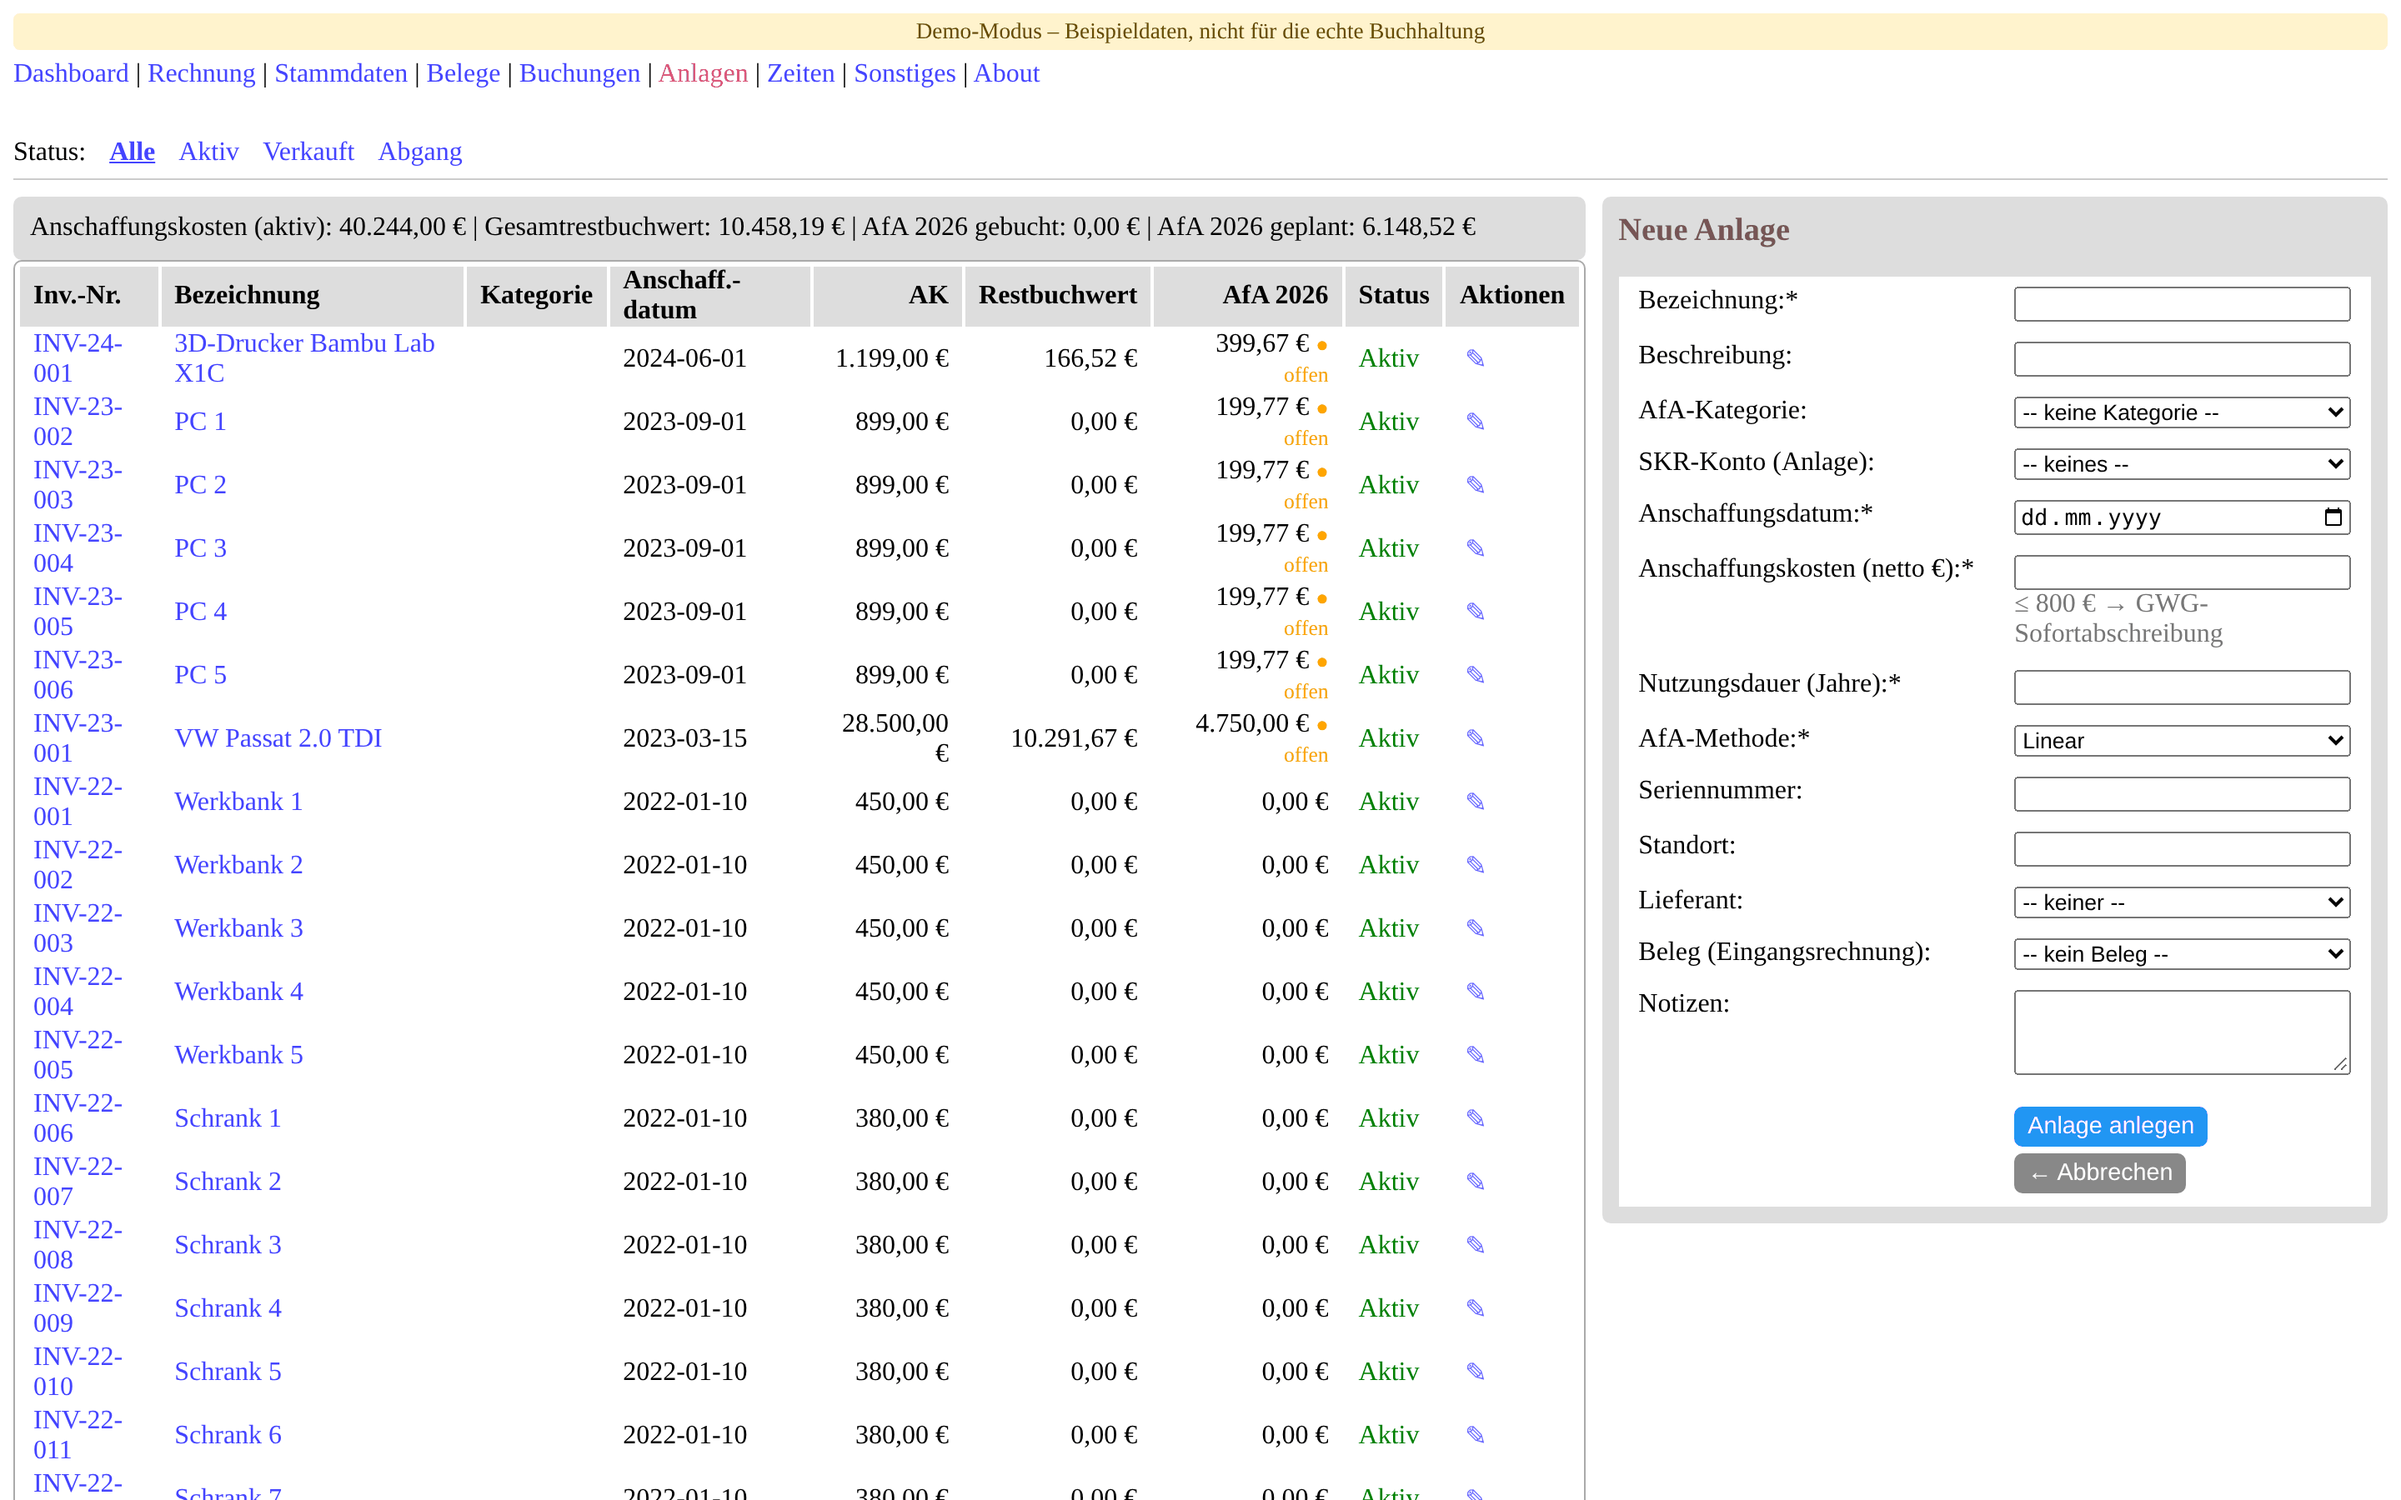
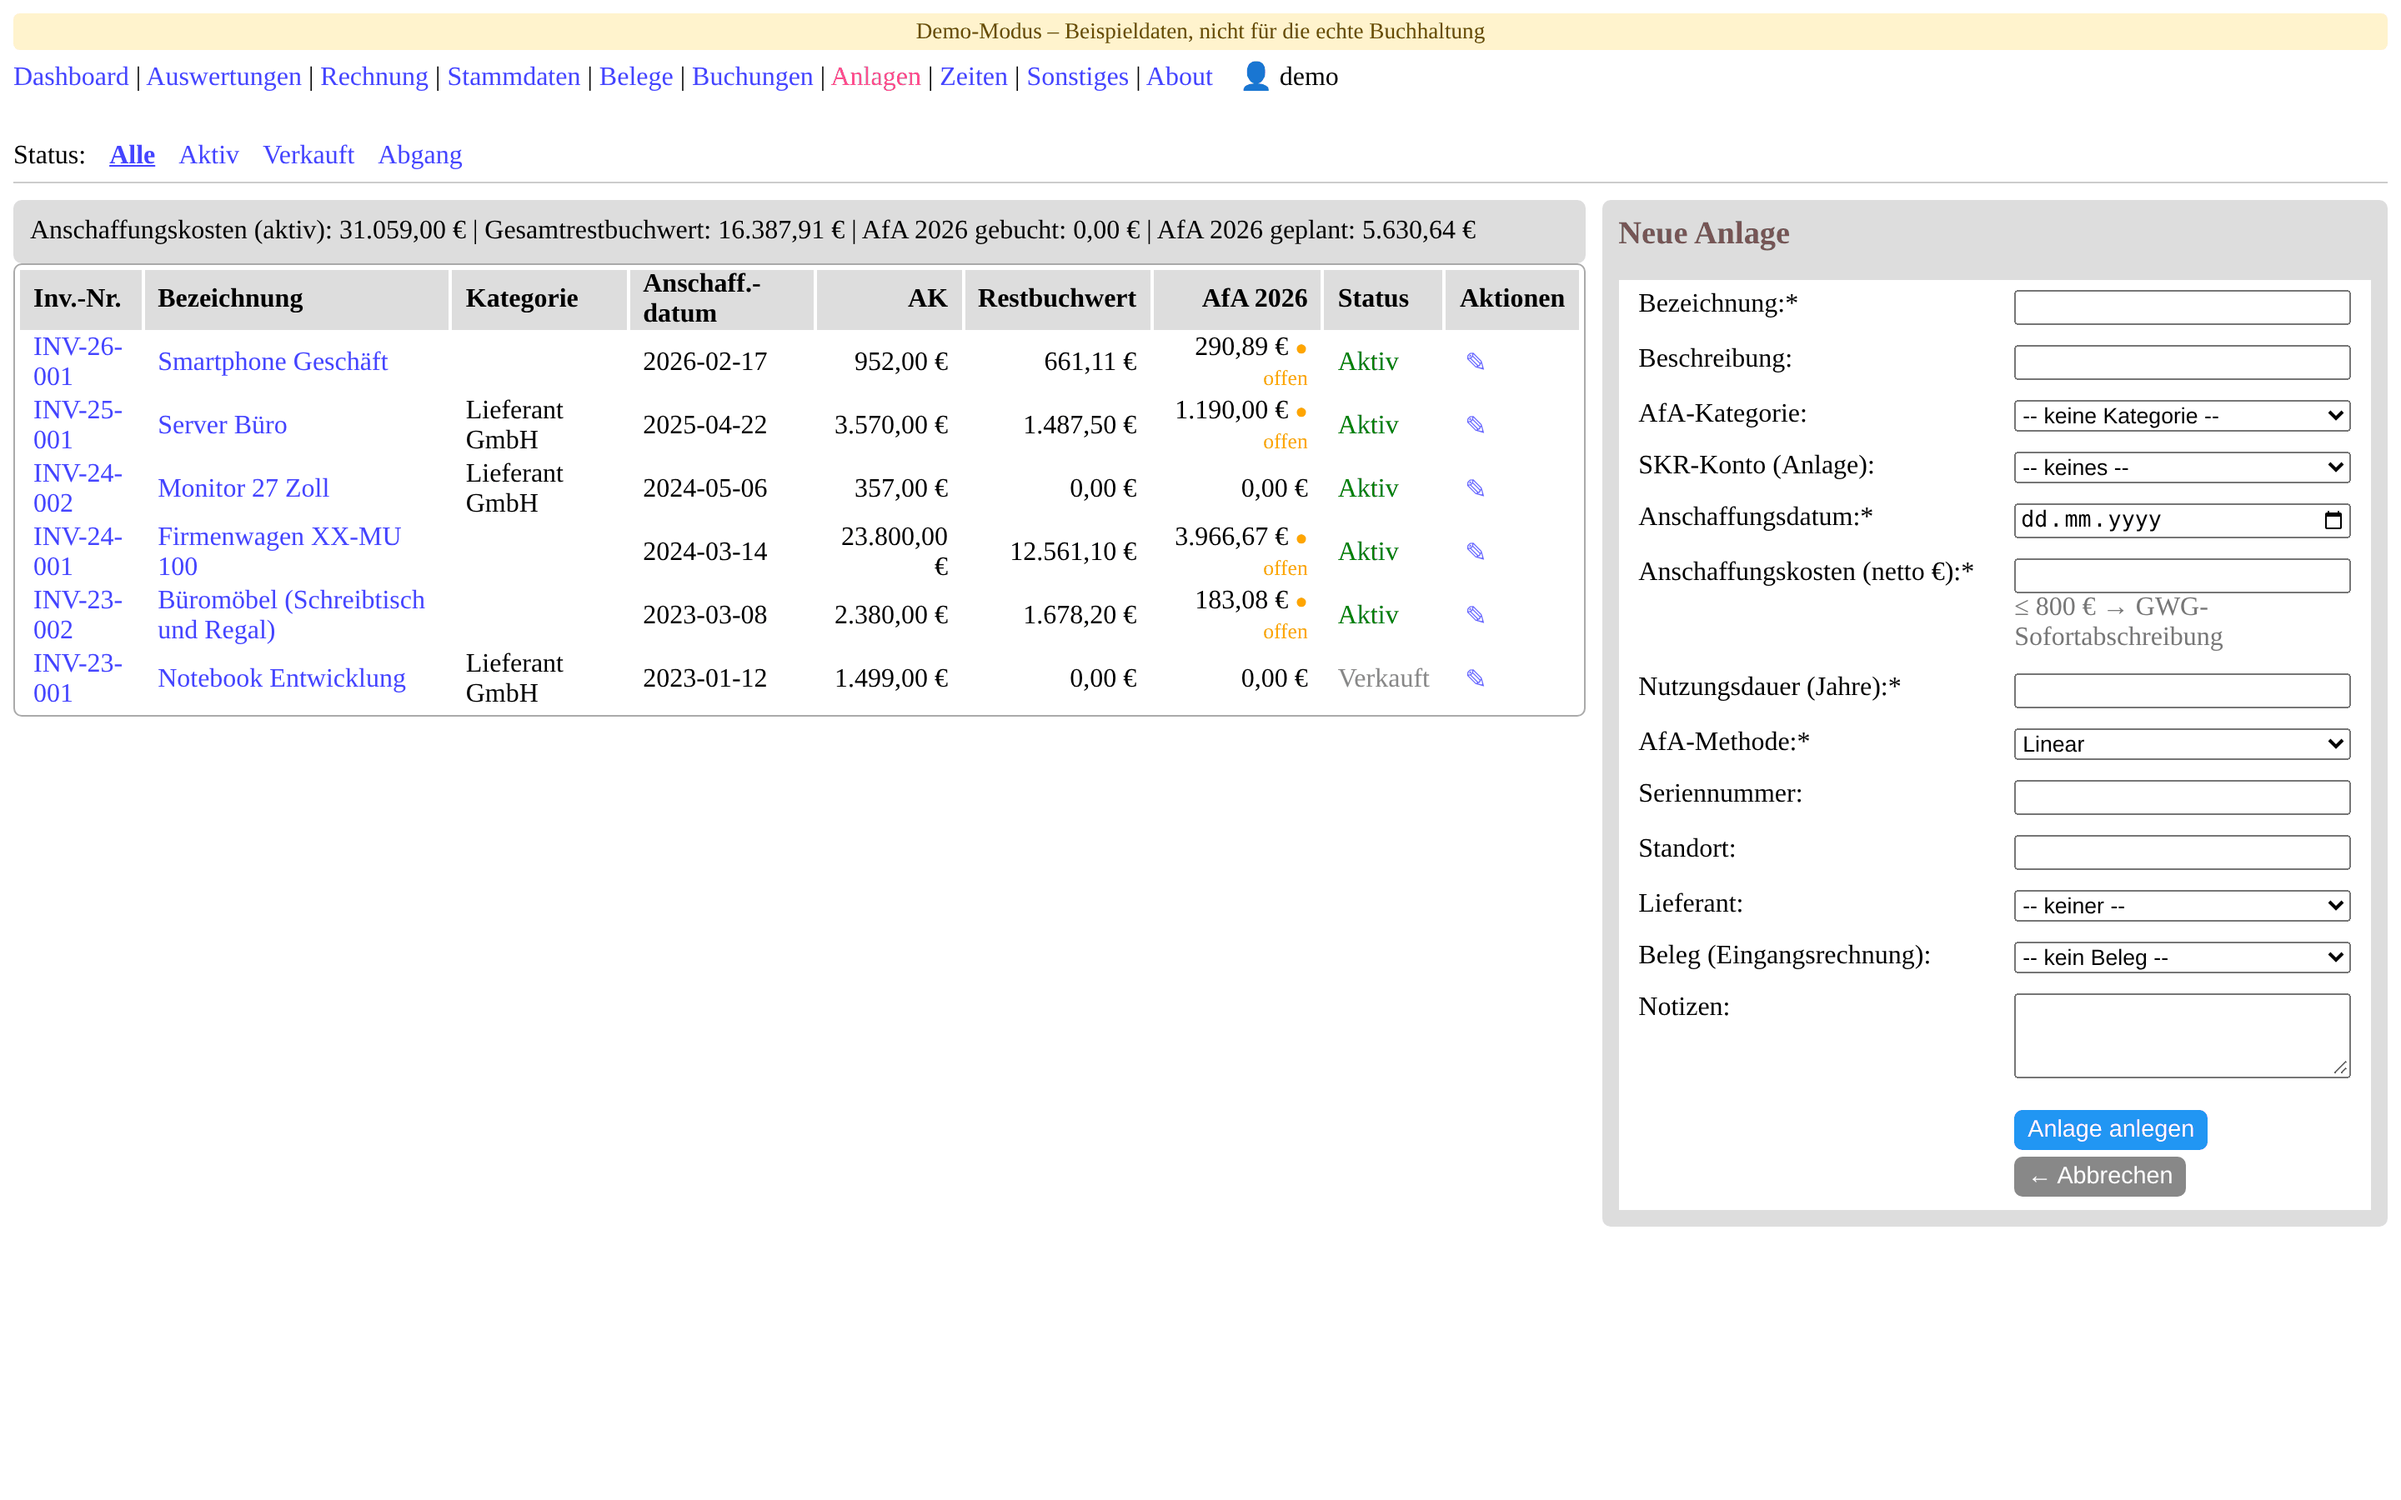
docs(readme): Screenshots neu erzeugt, mit BWA und Summen- und Saldenliste

diff --git a/README.md b/README.md
@@ -22,7 +22,21 @@ documentation are in German.
 </picture>
 
 <details>
-<summary><b>Weitere Screenshots</b> (Buchungen, Rechnungen, Anlagen, Fahrtenbuch, Arbeitszeiten)</summary>
+<summary><b>Weitere Screenshots</b> (Auswertungen, Buchungen, Rechnungen, Anlagen, Fahrtenbuch, Arbeitszeiten)</summary>
+
+**Betriebswirtschaftliche Auswertung** – ein Monat und das laufende Jahr im Vergleich mit dem Vorjahr, auch als PDF
+
+<picture>
+  <source media="(prefers-color-scheme: dark)" srcset="docs/screenshots/bwa-dark.png">
+  <img alt="Betriebswirtschaftliche Auswertung" src="docs/screenshots/bwa.png">
+</picture>
+
+**Summen- und Saldenliste** – je Konto Anfangssaldo, Soll, Haben und Endsaldo, auch als PDF
+
+<picture>
+  <source media="(prefers-color-scheme: dark)" srcset="docs/screenshots/susa-dark.png">
+  <img alt="Summen- und Saldenliste" src="docs/screenshots/susa.png">
+</picture>
 
 **Buchungen** – Bankbewegungen mit Kontierung, Split-Buchungen und Rechnungszahlungen
 
